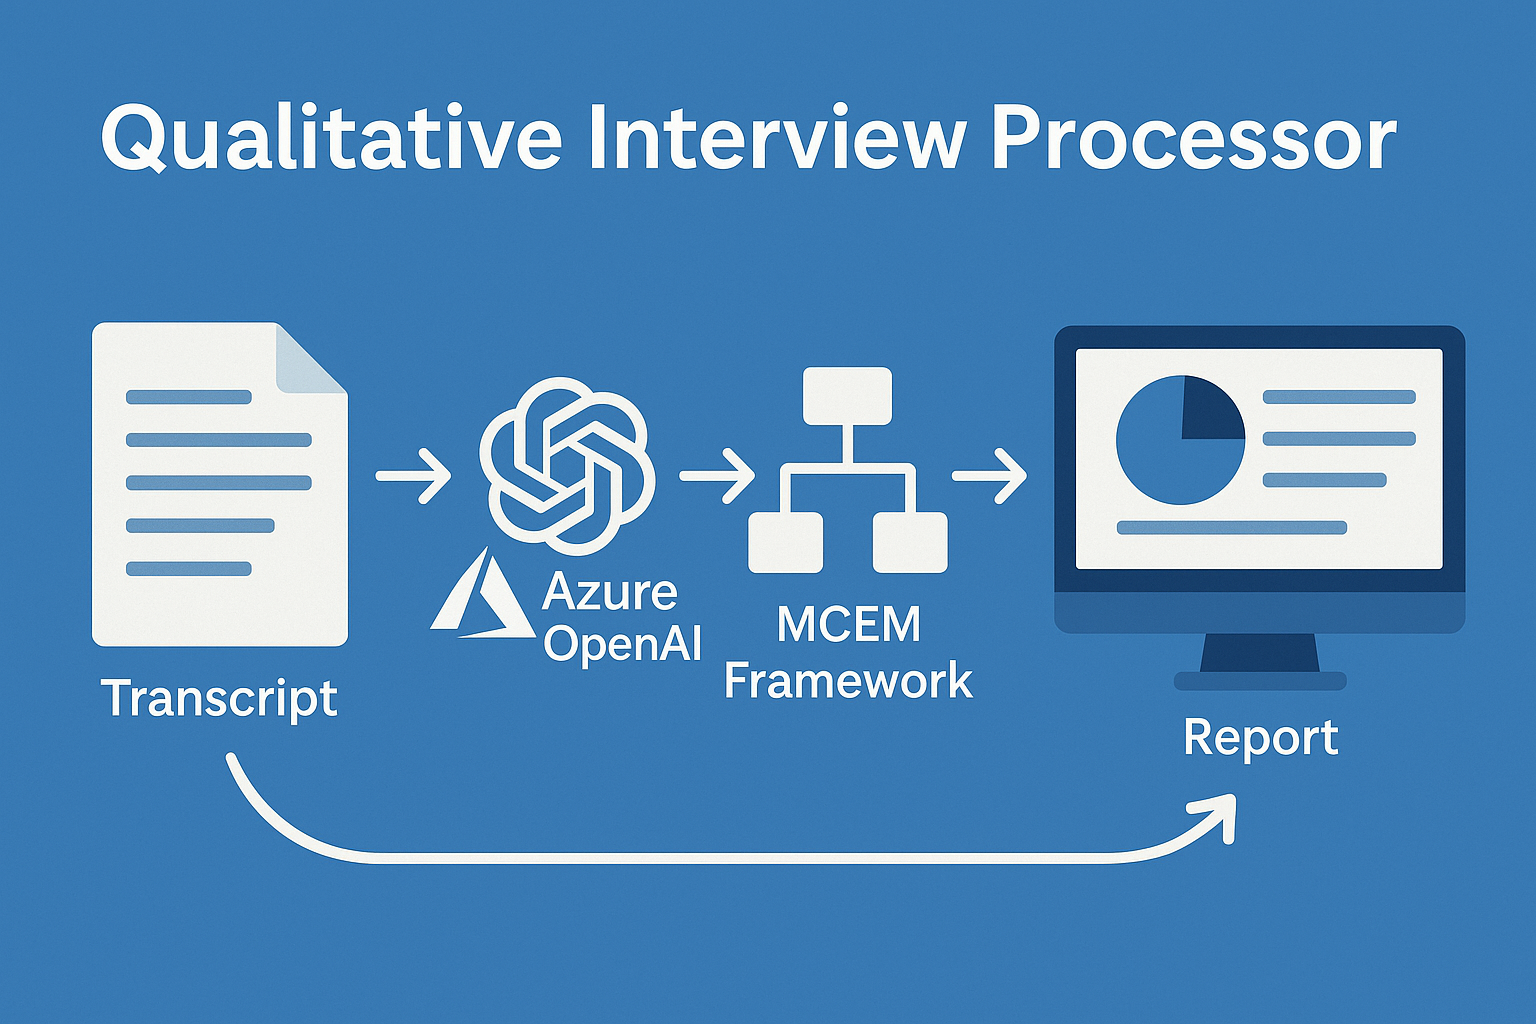
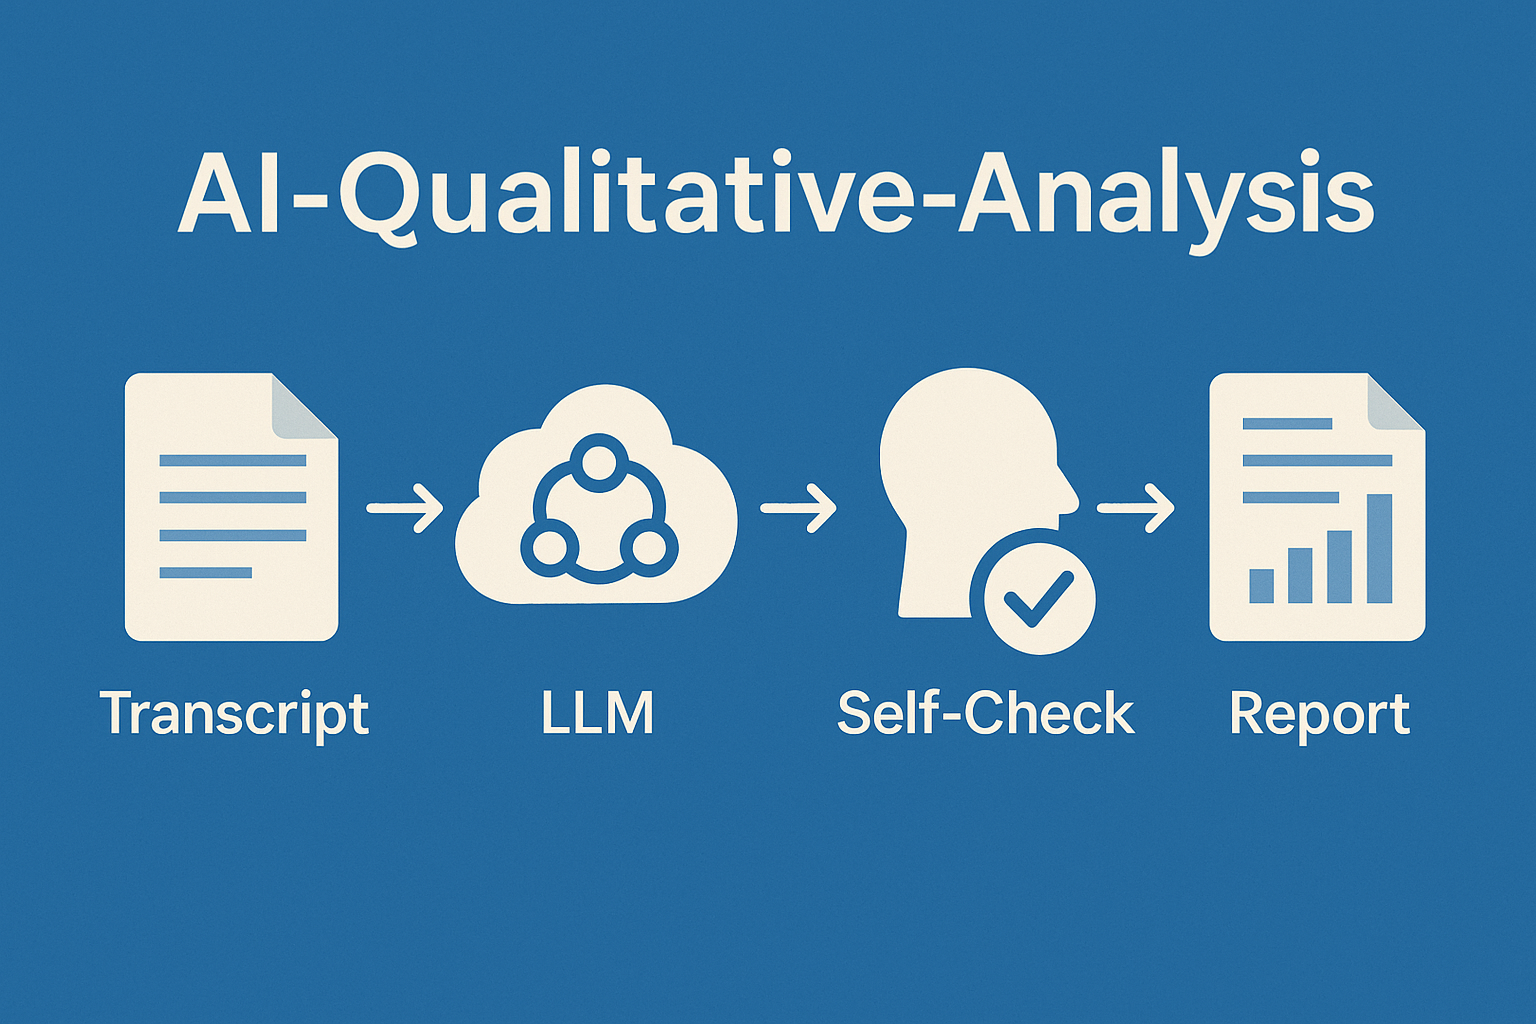
Release v1.1.0: Practical, not perfect validation, improved progress bar, and updated documentation

Changed region(s): [[0.0312, 0.3125, 0.9688, 0.8438], [0.0625, 0.0938, 0.9062, 0.25]]

diff --git a/processing/batch_processing.py b/processing/batch_processing.py
@@ -37,20 +37,19 @@ def process_all_transcripts(client, template: str, reports_dir: Path, input_dir:
     for transcript_file in transcript_files:
         logger = logging.getLogger()
         is_standard = logger.getEffectiveLevel() == STANDARD_LEVEL
+        template_display = template_path if template_path else (template[:40] + '...')
         if is_standard:
-            print(f"\nProcessing transcript: {transcript_file.name}")
-            show_progress_bar(0)
+            show_progress_bar(0, transcript_name=transcript_file.name, extra=f"Template: {template_display}")
         else:
             logger.standard("==============================")
             logger.standard("Processing transcript: %s", transcript_file.name)
-            logger.standard("Step 1: Transcript Collection - Loaded '%s'", transcript_file.name)
+            logger.standard("Step 0: Preparing Analysis - File: '%s', Template: '%s'", transcript_file.name, template_display)
         # Step 1: Transcript Collection
         md_output_file = reports_dir / f"{transcript_file.stem}_analysis.md"
         docx_output_file = reports_dir / f"{transcript_file.stem}_analysis.docx"
         # Step 2: Automated LLM Analysis
         if is_standard:
-            show_progress_bar(1)
-            print(f"  Using template: {template_path or 'AnalysisTemplate.txt'}")
+            show_progress_bar(2, transcript_name=transcript_file.name)
         else:
             logger.standard("Step 2: Automated LLM Analysis - Generating draft report...")
         # Save LLM validation/feedback if available
@@ -61,12 +60,12 @@ def process_all_transcripts(client, template: str, reports_dir: Path, input_dir:
             logging.info("Draft report saved: %s", md_output_file)
             # Step 4: Human Review & Approval
             if is_standard:
-                show_progress_bar(3)
+                show_progress_bar(4, transcript_name=transcript_file.name)
             else:
                 logger.standard("Step 4: Human Review & Approval - Please review the generated reports in '%s' for accuracy, context, and completeness before sharing.", reports_dir)
             # Step 5: Finalized, Shareable Report - Exporting to Word format...
             if is_standard:
-                show_progress_bar(4)
+                show_progress_bar(5, transcript_name=transcript_file.name)
             else:
                 logger.standard("Step 5: Finalized, Shareable Report - Exporting to Word format...")
             convert_markdown_to_docx(md_output_file, docx_output_file)
@@ -74,7 +73,8 @@ def process_all_transcripts(client, template: str, reports_dir: Path, input_dir:
         else:
             logging.error("Failed to generate report for '%s'.", transcript_file.name)
     if is_standard:
-        print("\nAll transcripts processed. Review reports for human approval and sharing.")
+        show_progress_bar(5, extra="All transcripts processed. Review reports for human approval and sharing.")
+        logging.info("All transcripts processed. Review reports for human approval and sharing.")
     else:
         logger.standard("==============================")
         logger.standard("\nStep 4: Human Review & Approval - Please review the generated reports in '%s' for accuracy, context, and completeness before sharing.", reports_dir)

diff --git a/processing/transcript_processing.py b/processing/transcript_processing.py
@@ -112,6 +112,8 @@ def process_transcript(transcript_path: Path, template: str, client: AzureOpenAI
             feedback_file = open(feedback_file_path, "w", encoding="utf-8")
             feedback_file.write(feedback_md_header)
         for iteration in range(5):
+            from utils.env_utils import show_progress_bar
+            show_progress_bar(2, transcript_name=transcript_path.name, extra=f"LLM Validation/Revision Pass {iteration+1}")
             logging.info(f"Validation pass {iteration+1}: Checking report completeness against transcript.")
             validation_prompt = validation_prompt_template.format(transcript=transcript, report=report)
             save_actual_prompt(validation_prompt, "validation", iteration+1)
@@ -134,7 +136,7 @@ def process_transcript(transcript_path: Path, template: str, client: AzureOpenAI
                 logging.info(f"Report validation passed on iteration {iteration+1}: all customer statements are captured.")
                 break
             else:
-                logging.warning(f"Report validation found issues on iteration {iteration+1}:\n" + validation_result)
+                logging.info(f"Report validation found issues on iteration {iteration+1}:\n" + validation_result)
                 report = generate_report(transcript, template, issues=validation_result, prev_report=report, iteration=iteration+1)
                 logging.info(f"Report revised on iteration {iteration+1}.")
         if feedback_file:

diff --git a/utils/env_utils.py b/utils/env_utils.py
@@ -15,6 +15,7 @@ if not hasattr(logging, 'STANDARD'):
 
 # TQL-style progress bar for pipeline steps
 PIPELINE_STEPS = [
+    "Preparing Analysis",  # Step 0
     "Transcript Collection",
     "Automated LLM Analysis",
     "LLM Self-Check & Validation",
@@ -22,10 +23,17 @@ PIPELINE_STEPS = [
     "Finalized, Shareable Report"
 ]
 
-def show_progress_bar(current_step_idx: int, total_steps: int = 5):
+def show_progress_bar(current_step_idx: int, total_steps: int = 6, transcript_name: str = None, extra: str = None):
     bar = "[" + "=" * (current_step_idx + 1) + ">" + "." * (total_steps - current_step_idx - 1) + "]"
     step_name = PIPELINE_STEPS[current_step_idx]
-    print(f"{bar} {current_step_idx+1}/{total_steps} {step_name}", flush=True)
+    msg = f"{bar} {current_step_idx+1}/{total_steps} {step_name}"
+    if transcript_name:
+        msg += f" | Transcript: {transcript_name}"
+    if extra:
+        msg += f" | {extra}"
+    logger = logging.getLogger()
+    if logger.getEffectiveLevel() == STANDARD_LEVEL:
+        logger.log(STANDARD_LEVEL, msg)
 
 
 def setup_logging(level="STANDARD") -> None:
@@ -73,3 +81,4 @@ def check_pandoc_installed() -> None:
     if which("pandoc") is None:
         logging.error("Pandoc is not installed or not in PATH. Please install Pandoc to enable Word conversion.")
         sys.exit(1)
+

diff --git a/main.py b/main.py
@@ -38,6 +38,9 @@ from utils.env_utils import check_env_vars, check_pandoc_installed, setup_loggin
 from utils.file_utils import ensure_reports_dir, get_client, load_analysis_template
 
 
+__version__ = "1.1.0"  # Version string for the application
+
+
 # --- Main Entry Point ---
 def main():
     """

diff --git a/README.md b/README.md
@@ -1,16 +1,22 @@
-![Qualitative Interview Processor Banner](banner.png)
+![AI Qualitative Analysis Banner](banner.png)
 
-# Qualitative Interview Processor
+# AI Qualitative Analysis
 
-**Version: 1.0.0**
+**Version: 1.1.0**
+
+> **Changelog (v1.1.0, June 2025):**
+> - Introduced 'practical, not perfect' validation: LLM validation now requires reports to be very accurate and complete for business use, not flawless.
+> - Most transcripts now pass in 1–2 turns, making the workflow efficient and realistic.
+> - Progress bar and logs improved for transparency and per-file clarity.
+> - Documentation updated to reflect the new validation approach.
 
 Easily turn your qualitative customer interviews and survey transcripts into actionable, structured reports—powered by Azure OpenAI's large language models (LLMs) and the Microsoft Customer Engagement Model (MCEM).
 
 **Includes a human-in-the-loop validation step to mitigate LLM hallucinations and ensure all insights are grounded in the original transcript.**
 
-## Process Flow: Reliable, Actionable Analysis
+## Process Flow: Reliable, Actionable Analysis (Practical, Not Perfect)
 
-To ensure every report is accurate, trustworthy, and ready for business use, this tool combines advanced AI with both automated and human validation steps:
+To ensure every report is accurate, trustworthy, and ready for business use, this tool combines advanced AI with both automated and human validation steps. **The validation process is designed to be practical, not perfect:** the LLM is instructed to pass reports that are "very accurate" and complete for business use, not flawless. Most transcripts pass in 1-2 turns, making the workflow efficient and realistic for real-world use.
 
 **Process Flow:**
 
@@ -20,8 +26,10 @@ To ensure every report is accurate, trustworthy, and ready for business use, thi
 2. **Automated LLM Analysis**
    - The script uses Azure OpenAI (GPT-4) to generate a structured draft report based on your chosen template.
 
-3. **LLM Self-Check & Validation**
+3. **LLM Self-Check & Validation (Practical, Not Perfect)**
    - The AI reviews its own output, checking for completeness, missing quotes, and alignment with the transcript (using built-in prompt-based validation).
+   - The LLM is explicitly instructed to reply with ONLY 'VALID' if the report is complete and accurate for business use, even if not perfect. This ensures the validation loop is practical and does not require endless revisions for minor or subjective issues.
+   - Most transcripts pass validation in 1-2 turns; only rare cases require a second revision.
 
 4. **Human Review & Approval**
    - You review the draft report, ensuring:
@@ -37,6 +45,7 @@ To ensure every report is accurate, trustworthy, and ready for business use, thi
 **Why this matters:**
 - LLMs can sometimes generate plausible-sounding but unsupported content (hallucinations).
 - Automated and human validation together ensure all findings are evidence-based and actionable, maintaining trust and business value.
+- The practical validation approach ensures the workflow is efficient and avoids unnecessary iterations.
 
 > **Best Practice:** Always review and verify LLM-generated reports before sharing or acting on the insights.
 
@@ -152,11 +161,11 @@ For more details, see the [Azure OpenAI documentation](https://learn.microsoft.c
 
 ## Process Flow & Validation (LLM + Human-in-the-Loop)
 
-This tool is designed to mitigate LLM hallucinations and ensure high-quality qualitative analysis through a clear, multi-step process:
+This tool is designed to mitigate LLM hallucinations and ensure high-quality qualitative analysis through a clear, multi-step process. **The validation loop is practical, not perfect: the LLM is instructed to pass reports that are very accurate and complete for business use, not flawless.**
 
 1. **Transcript Collection**: Load each transcript from the specified input folder.
 2. **Automated LLM Analysis**: Use Azure OpenAI (GPT-4) to generate a draft report for each transcript, following a customizable template (default: MCEM framework).
-3. **LLM Self-Check & Validation**: The LLM performs a self-validation step to check for consistency and completeness.
+3. **LLM Self-Check & Validation (Practical, Not Perfect)**: The LLM performs a self-validation step to check for consistency and completeness. It is instructed to reply 'VALID' if the report is complete and accurate for business use, even if not perfect.
 4. **Human Review & Approval**: Users are prompted to review each generated report for accuracy, context, and completeness. This step is essential to mitigate hallucinations and ensure the final output is trustworthy.
 5. **Finalized, Shareable Report**: Approved reports are saved in Markdown and Word formats, ready for sharing.
 
@@ -164,7 +173,7 @@ This tool is designed to mitigate LLM hallucinations and ensure high-quality qua
 
 ## Hallucination Mitigation & Human Validation
 
-- **LLM Self-Check**: After initial analysis, the LLM performs a self-validation step to catch inconsistencies or missing information.
+- **LLM Self-Check**: After initial analysis, the LLM performs a self-validation step to catch inconsistencies or missing information. The validation prompt is designed to be practical, not require perfection, and most transcripts pass in 1-2 turns.
 - **Human-in-the-Loop**: Every report requires human review and approval before being finalized. This is clearly announced in the logs and documentation.
 - **Process Transparency**: Logs and output files are organized to make each step and its outcome clear, supporting traceability and auditability.
 

diff --git a/learnings.md b/learnings.md
@@ -65,6 +65,19 @@ To improve the completeness and accuracy of automated MCEM interview transcript 
 ## Dependency & Error Handling
 - Ensuring all dependencies are listed in requirements.txt and fixing import/syntax errors in tests improves reliability and maintainability.
 
+## May 2024: Progress Bar & Logging Enhancement
+- Added an explicit initial step (0/5) to the progress bar for each transcript file, displaying the file name and the analysis template being used.
+- This change clarifies per-file processing in logs and progress output, improving transparency and user guidance.
+- All subsequent pipeline steps were shifted to accommodate the new step 0, ensuring accurate and granular progress tracking throughout the analysis workflow.
+
+---
+
+## Release 1.1.0 (June 2025): Practical, Not Perfect Validation
+- LLM validation now requires reports to be very accurate and complete for business use, not flawless.
+- Most transcripts pass validation in 1–2 turns, making the workflow efficient and realistic.
+- Progress bar and per-file logging improved for transparency.
+- Documentation and process flow updated to reflect the new approach.
+
 ---
 
 *This document summarizes the learnings and rationale behind the iterative refinement of the Qualitative Interview Processor analysis template and workflow.*
